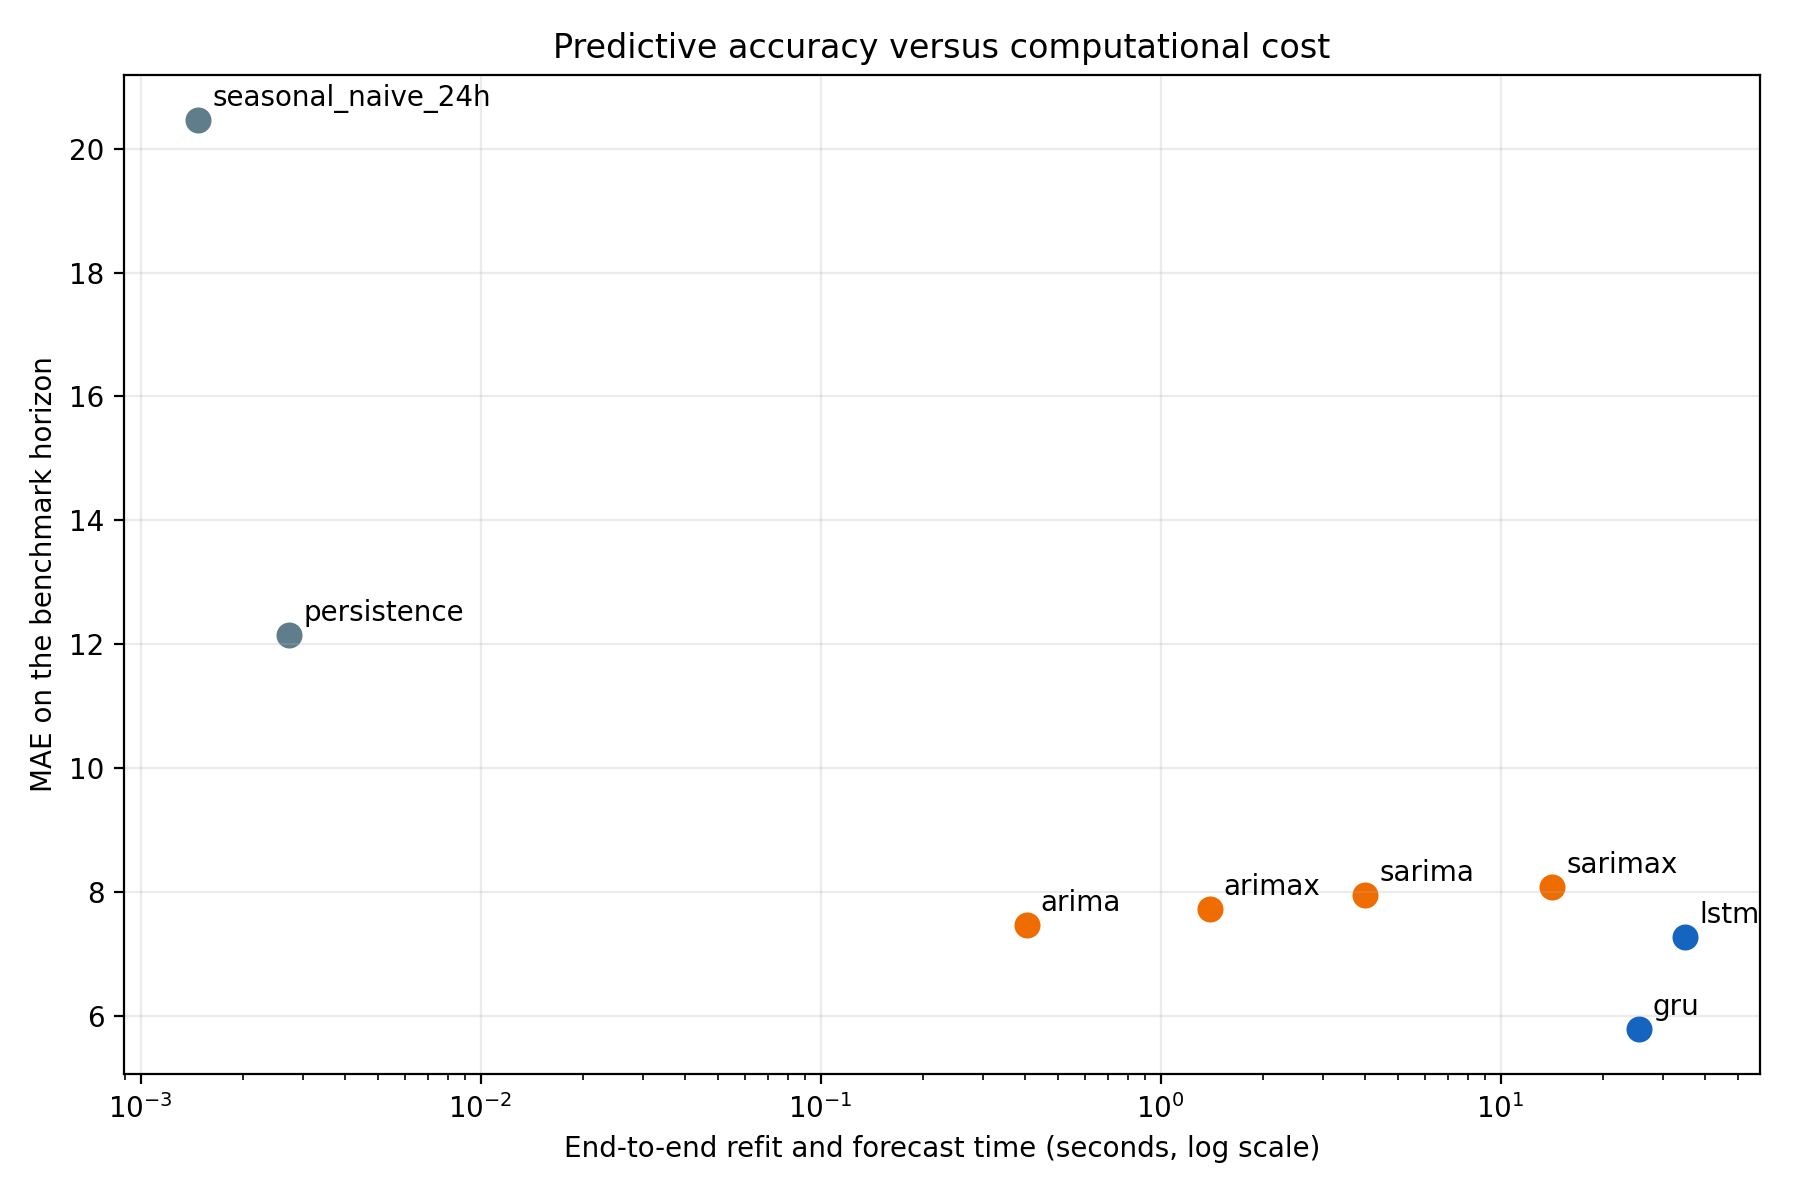
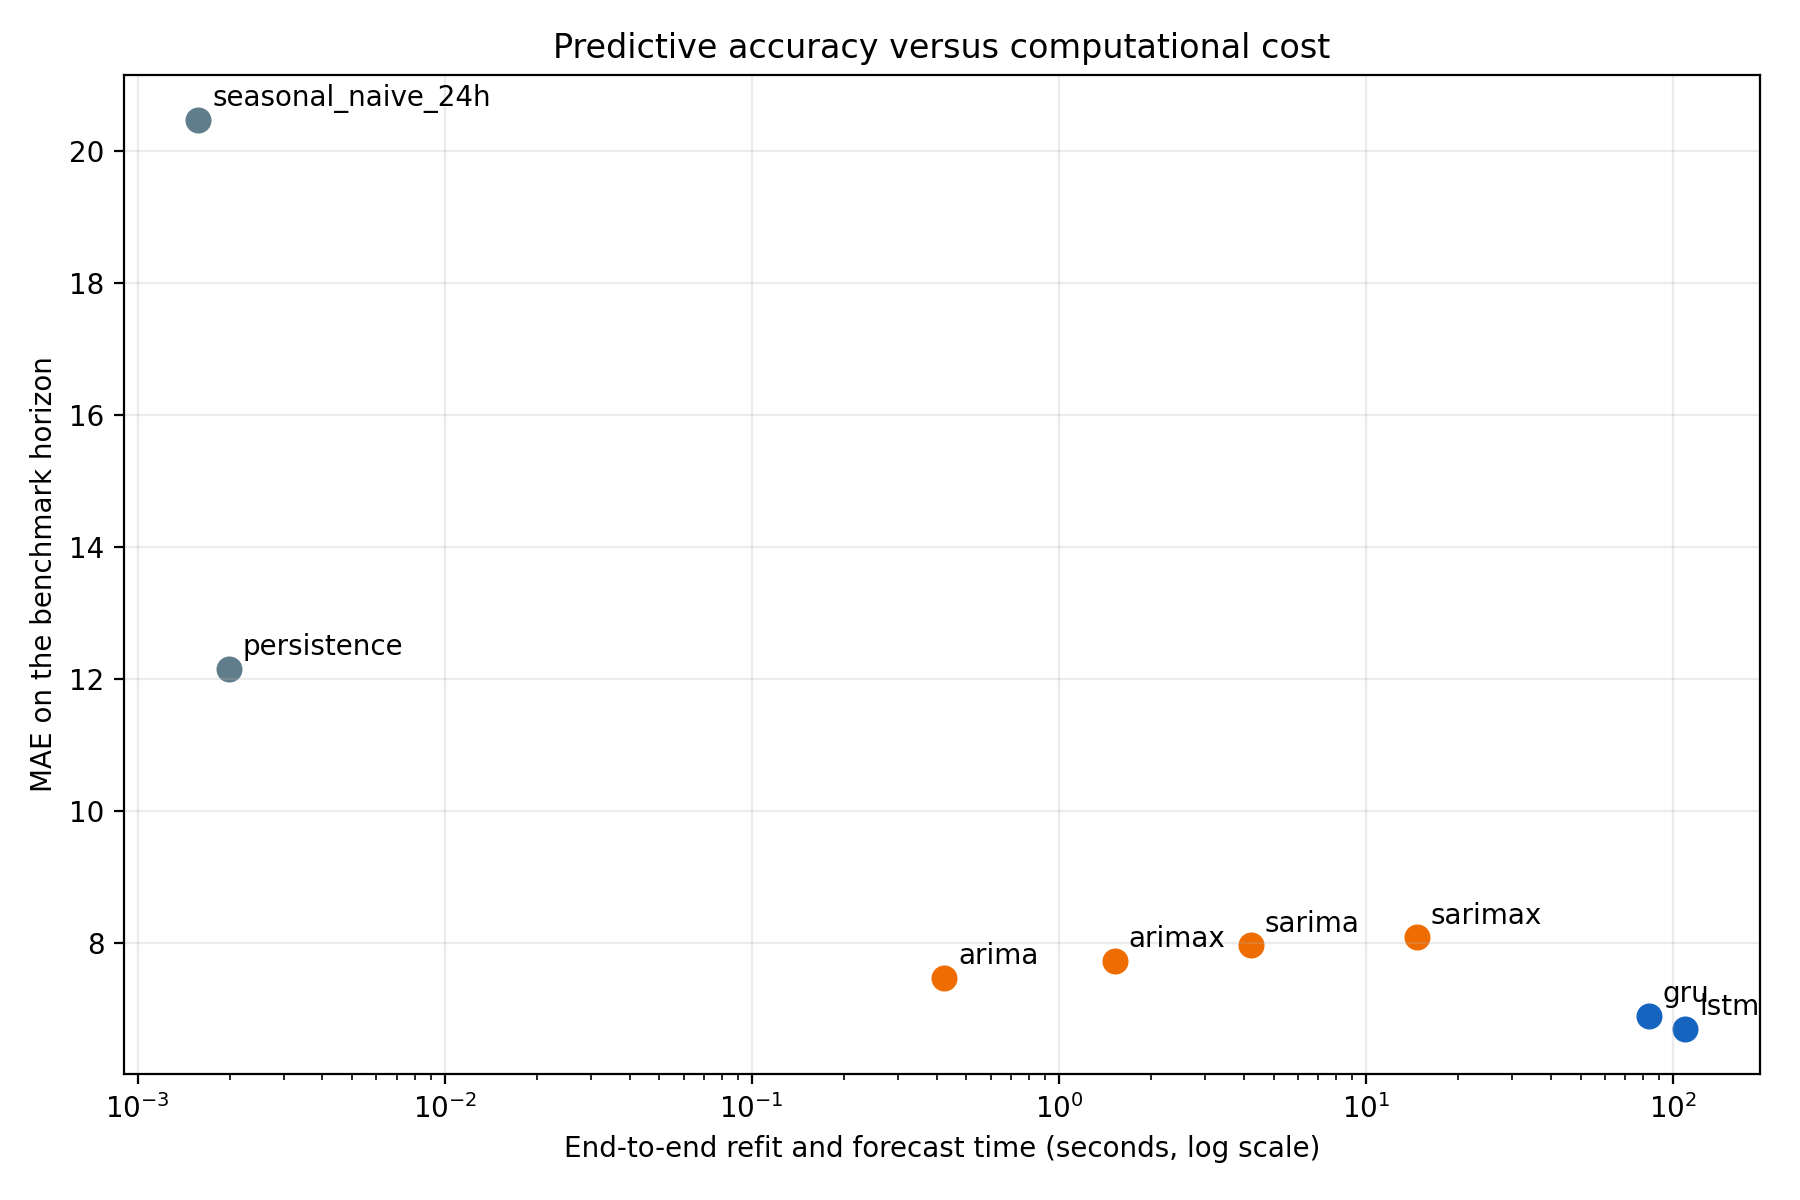
added separation to day metrics for mape

diff --git a/src/experiments/final_model_comparison_run.py b/src/experiments/final_model_comparison_run.py
@@ -35,7 +35,11 @@ from src.parameter_tuning.selection import (
     select_robust_candidate
 )
 from src.parameter_tuning.tuner import final_test as final_neural_test
-from src.training.evaluation import evaluate
+from src.training.evaluation import (
+    daylight_mape,
+    daylight_mask_for,
+    evaluate
+)
 
 
 RESULTS_DIR = FINAL_COMPARISON_RESULTS_DIR
@@ -147,7 +151,8 @@ def load_existing_summaries(
         "training_data",
         "tuning_protocol",
         "metric_aggregation",
-        "high_quality_mae"
+        "high_quality_mae",
+        "day_mape"
     }
 
     if resume_columns.difference(comparison_df.columns):
@@ -412,8 +417,30 @@ def result_summary(
         y_true=y_test[high_quality_mask],
         y_pred=primary_prediction[high_quality_mask]
     )
-
     seed_predictions = final_result.get("seed_predictions")
+
+    # MAPE selects hours by a production threshold, which is only a proxy for
+    # daylight. Recompute it on an explicit solar-elevation mask to check the
+    # proxy. Aggregate across seeds exactly as the headline MAPE does, so the
+    # two are directly comparable.
+    daylight_mask = daylight_mask_for(test_index)
+    daylight_scored = daylight_mask & (y_test > MAPE_PRODUCTION_THRESHOLD)
+
+    if seed_predictions is not None:
+        day_mape = float(
+            np.mean(
+                [
+                    daylight_mape(
+                        test_index,
+                        y_test,
+                        np.asarray(seed_prediction)
+                    )
+                    for seed_prediction in seed_predictions
+                ]
+            )
+        )
+    else:
+        day_mape = daylight_mape(test_index, y_test, primary_prediction)
 
     if seed_predictions is not None:
         high_quality_metric_values = np.asarray(
@@ -534,6 +561,9 @@ def result_summary(
         "high_quality_rmse_std": high_quality_metric_std[1],
         "high_quality_mape": high_quality_metrics[2],
         "high_quality_mape_std": high_quality_metric_std[2],
+        "daylight_hours": int(daylight_mask.sum()),
+        "day_mape_samples": int(daylight_scored.sum()),
+        "day_mape": day_mape,
         "test_blocks": test_block_metrics["validation_blocks"],
         "test_block_mae_mean": test_block_metrics["val_block_mae_mean"],
         "test_block_mae_std": test_block_metrics["val_block_mae_std"],
@@ -693,6 +723,20 @@ def save_comparison(summaries):
         ]
     ].sort_values("test_block_mae_mean").to_csv(
         RESULTS_DIR / "final_model_block_metrics.csv",
+        index=False
+    )
+    # Cross-check of the MAPE hour selection: the production threshold against
+    # an explicit solar-elevation mask.
+    comparison_df[
+        [
+            "model",
+            "mape",
+            "percentage_metric_samples",
+            "day_mape",
+            "day_mape_samples"
+        ]
+    ].sort_values("day_mape").to_csv(
+        RESULTS_DIR / "final_model_daylight_mape.csv",
         index=False
     )
 

diff --git a/src/utils/solar.py b/src/utils/solar.py
@@ -1,0 +1,74 @@
+"""Solar geometry used to split forecasts into day and night periods.
+
+Utrecht daylight ranges from roughly 7.75 hours in December to 16.5 hours in
+June, so a fixed clock window cannot separate day from night. The solar
+elevation angle is computed instead, following the NOAA solar position
+equations. The split depends only on timestamp and site coordinates, never on
+the observed or predicted production, so it cannot leak target information into
+the evaluation.
+"""
+
+import numpy as np
+import pandas as pd
+
+
+def solar_elevation(index, latitude, longitude):
+    """Solar elevation angle in degrees for a UTC DatetimeIndex."""
+    index = pd.DatetimeIndex(index)
+
+    if index.tz is not None:
+        index = index.tz_convert("UTC").tz_localize(None)
+
+    day_of_year = index.dayofyear.to_numpy()
+    utc_hour = (
+        index.hour.to_numpy()
+        + index.minute.to_numpy() / 60.0
+    )
+
+    # fractional year, radians
+    gamma = (
+        2 * np.pi / 365.0
+        * (day_of_year - 1 + (utc_hour - 12) / 24.0)
+    )
+
+    # equation of time, minutes
+    equation_of_time = 229.18 * (
+        0.000075
+        + 0.001868 * np.cos(gamma)
+        - 0.032077 * np.sin(gamma)
+        - 0.014615 * np.cos(2 * gamma)
+        - 0.040849 * np.sin(2 * gamma)
+    )
+
+    # solar declination, radians
+    declination = (
+        0.006918
+        - 0.399912 * np.cos(gamma)
+        + 0.070257 * np.sin(gamma)
+        - 0.006758 * np.cos(2 * gamma)
+        + 0.000907 * np.sin(2 * gamma)
+        - 0.002697 * np.cos(3 * gamma)
+        + 0.001480 * np.sin(3 * gamma)
+    )
+
+    true_solar_time = utc_hour * 60.0 + equation_of_time + 4.0 * longitude
+    hour_angle = np.deg2rad(true_solar_time / 4.0 - 180.0)
+
+    latitude_radians = np.deg2rad(latitude)
+    sine_elevation = (
+        np.sin(latitude_radians) * np.sin(declination)
+        + np.cos(latitude_radians)
+        * np.cos(declination)
+        * np.cos(hour_angle)
+    )
+
+    return np.rad2deg(np.arcsin(np.clip(sine_elevation, -1.0, 1.0)))
+
+
+def is_daylight(index, latitude, longitude, elevation_threshold=0.0):
+    """Boolean mask marking hours where the sun is above the threshold."""
+    return solar_elevation(
+        index=index,
+        latitude=latitude,
+        longitude=longitude
+    ) > elevation_threshold

diff --git a/src/training/evaluation.py b/src/training/evaluation.py
@@ -1,7 +1,13 @@
 import numpy as np
 from sklearn.metrics import mean_absolute_error, mean_squared_error
 
-from src.configs.evaluation import MAPE_PRODUCTION_THRESHOLD
+from src.configs.evaluation import (
+    DAYLIGHT_ELEVATION_DEGREES,
+    MAPE_PRODUCTION_THRESHOLD,
+    SITE_LATITUDE,
+    SITE_LONGITUDE
+)
+from src.utils.solar import is_daylight
 
 
 def evaluate(
@@ -32,3 +38,48 @@ def evaluate(
         mape = np.nan
 
     return mae, rmse, mape
+
+
+def daylight_mask_for(
+    index,
+    latitude=SITE_LATITUDE,
+    longitude=SITE_LONGITUDE,
+    elevation_threshold=DAYLIGHT_ELEVATION_DEGREES
+):
+    return is_daylight(
+        index=index,
+        latitude=latitude,
+        longitude=longitude,
+        elevation_threshold=elevation_threshold
+    )
+
+
+def daylight_mape(
+    index,
+    y_true,
+    y_pred,
+    production_threshold=MAPE_PRODUCTION_THRESHOLD,
+    **daylight_kwargs
+):
+    """MAPE restricted to hours when the sun is above the horizon.
+
+    The headline MAPE selects hours by a production threshold, which is only a
+    proxy for daylight. Recomputing it on an explicit solar-elevation mask tests
+    whether that proxy is sound: if the two agree, the threshold is doing its
+    job. MAPE has no night counterpart because production is zero after sunset
+    and the percentage denominator vanishes.
+    """
+    y_true = np.asarray(y_true)
+    y_pred = np.asarray(y_pred)
+    mask = daylight_mask_for(index=index, **daylight_kwargs)
+
+    if not mask.any():
+        return np.nan
+
+    _, _, mape = evaluate(
+        y_true[mask],
+        y_pred[mask],
+        production_threshold=production_threshold
+    )
+
+    return mape

diff --git a/src/configs/evaluation.py b/src/configs/evaluation.py
@@ -13,6 +13,12 @@ RNN_SEEDS = (42, 123, 2026)
 MAPE_PRODUCTION_THRESHOLD = 5.0
 PV_QUALITY_THRESHOLD = 0.50
 
+# Utrecht, the site of the PV systems. Used only to split scored hours into
+# day and night via solar elevation, never as a model input.
+SITE_LATITUDE = 52.0907
+SITE_LONGITUDE = 5.1214
+DAYLIGHT_ELEVATION_DEGREES = 0.0
+
 SELECTION_PROTOCOL = "monthly_blocks_converged_bic_lag1_causal_v6"
 NEURAL_SELECTION_PROTOCOL = "monthly_blocks_seeded_split_scaled_features_v6"
 FINAL_COMPARISON_PROTOCOL = "rolling_origin_seed_mean_quality_v8"
